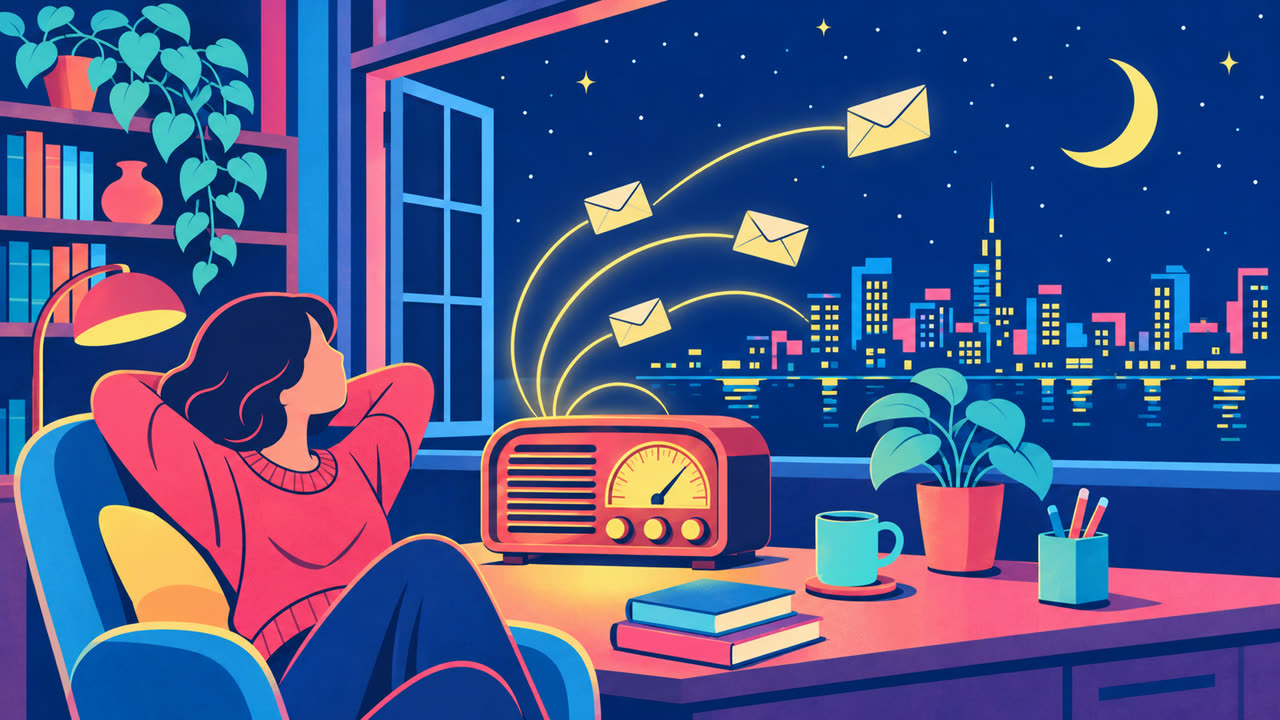
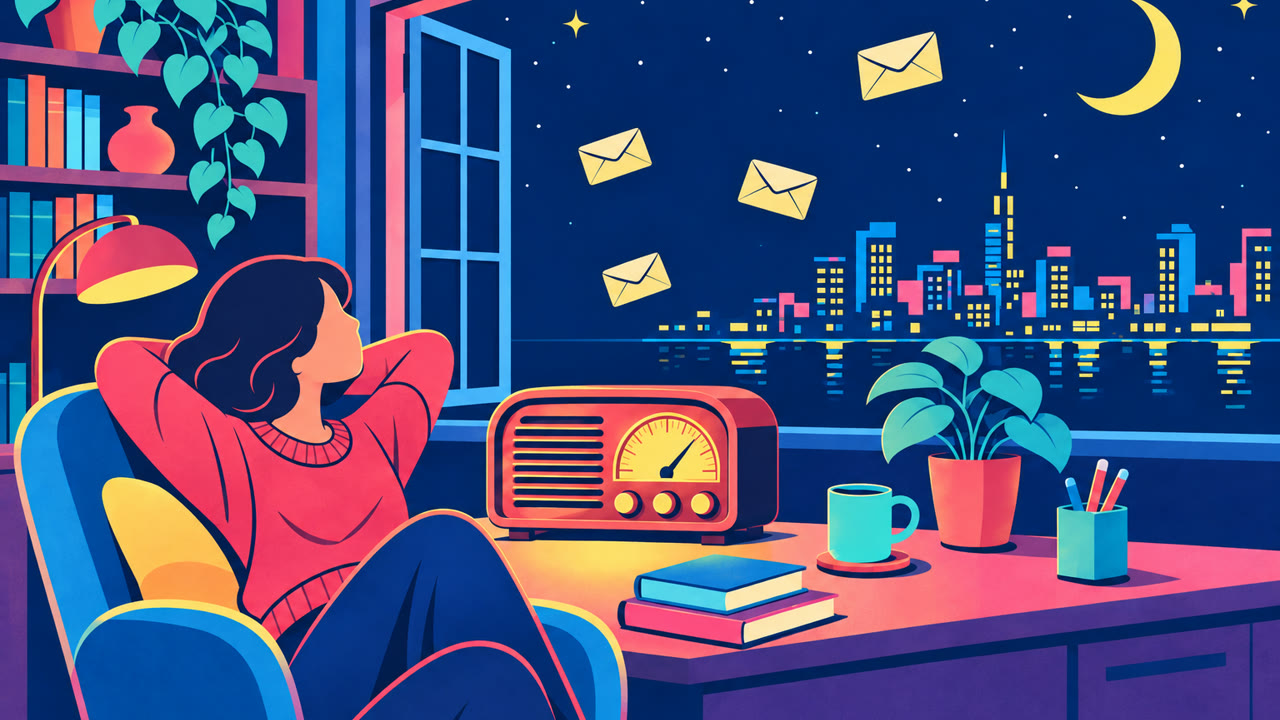
feat: about page says what the radio is for; illustrations without the connecting lines
本人のフィードバック（2026-11-08 朝、2 回目）。「聴く」は「私も」と「一言」、「自分のラジオ」は送ったお便りと
一言を返したお便りをまとめたラジオ、「できること・しないこと」は DJ が好きかもしれないものと新しいものを
ダイヤルのバランスで紹介する、に。挿絵 3 枚は線の無いものに作り直した（元の絵を参照に生成）。
README の「なぜ作ったか」は、好きを届ける・共感する・新しい好きに出会う、の前向きな書き方に。

diff --git a/src/worker/i18n/ja.ts b/src/worker/i18n/ja.ts
@@ -297,18 +297,18 @@ export const ja = {
   "about.title": "Dococa FM とは",
   "about.lead": "世界のどこかにいる誰かの好きなものが聴こえてくるラジオです。誰かが好きな曲・本・映画について書いたお便りを、DJ が読み上げます。フォローも DM もランキングも無く、聴くだけでいい。遠くの誰かと、好きなものだけでつながるための場所です。",
   "about.tour": "使い方",
-  "about.listen.alt": "夜の部屋でラジオを聴く人。ラジオから光の波に乗ってお便りの封筒が流れてくる",
-  "about.send.alt": "夜の机で、はがきを小さなラジオに差し込む手。光になって街の電波塔へ飛んでいく",
-  "about.mine.alt": "棚の上のレコード・本・フィルムが光り、ラジオから世界地図の上の小さな人影へ線が伸びる",
+  "about.listen.alt": "夜の部屋でラジオを聴く人。窓の外の夜空に、お便りの封筒が浮かんでいる",
+  "about.send.alt": "夜の机で、はがきを小さなラジオに差し込む手。窓の外に街と電波塔",
+  "about.mine.alt": "棚の上のレコード・本・フィルムが光り、壁の世界地図に小さな人影が灯る",
   "about.rules.alt": "マイクの前で、封をしたままの手紙を両手で持つ DJ",
   "about.listen.title": "聴く",
-  "about.listen.body": "スイッチを入れると、お便りが流れはじめます。ダイヤルを回すと、自分の好みに近いお便りと、少し遠くのお便りの割合が変わります（次のお便りから効きます）。流れているお便りには「私も」と一言を返せます。返さなくてもかまいません。",
+  "about.listen.body": "スイッチを入れると、お便りが流れはじめます。ダイヤルを回すと、自分の好みに近いお便りと、少し遠くのお便りの割合が変わります（次のお便りから効きます）。流れているお便りには「私も」と「一言」を返せます。",
   "about.send.title": "送る",
   "about.send.body": "好きな作品の URL を貼るか、題名で探して、お便りを書きます。お便りは、書いたとおりに読まれます。別の言語で聴いている人には、原文はそのままに、訳したものが読まれます。",
   "about.mine.title": "自分のラジオ",
-  "about.mine.body": "お便りを 3 通送ると、あなたの好みに近いお便りが流れてきます。Google でサインインしてマイページで公開にすると、自分のラジオの URL で誰かに聴いてもらえます。",
+  "about.mine.body": "自分のラジオは、あなたが送ったお便りと、「一言」を返したお便りをまとめたラジオです。Google でサインインしてマイページで公開にすると、自分のラジオの URL で誰かに聴いてもらえます。お便りを 3 通送ると、ダイヤルが効きはじめます。",
   "about.rules.title": "できること・しないこと",
-  "about.rules.body": "AI は、お便りに書き足しも言い換えもせずに読みます。別の言語で聴いている人には、原文はそのままに、訳したものを読みます。お便りは書いた人のものです。時事は話さず、数字で人や作品を測りません。出典の無い声も作りません。いまは、［デモ用］の印の付いた架空のリスナーのお便りも混ざっています。通報されたお便りは、確認のうえ非公開にします。",
+  "about.rules.body": "AI は、お便りに書き足しも言い換えもせずに読みます。別の言語で聴いている人には、原文はそのままに、訳したものを読みます。お便りは書いた人のものです。DJ は、あなたが好きかもしれないものと、まだ出会ったことのない新しいものへのお便りを、ダイヤルで選んだバランスで、あなただけに紹介します。",
   "share.continue": "ラジオで続きを聴く",
   "share.player": "このお便りを聴く",
   "share.openSite": "Dococa FM で聴く",

diff --git a/test/worker/routes/about.test.ts b/test/worker/routes/about.test.ts
@@ -29,14 +29,14 @@ describe("GET /about", () => {
 
   it("says the own radio leans to the listener after three letters, keeps the sign-in line, and links neither /start nor Spotify", async () => {
     const ja = await (await get("/about", await newSession())).text();
-    expect(ja).toMatch(/<h2>自分のラジオ<\/h2>[\s\S]*?<p>お便りを 3 通送ると、あなたの好みに近いお便りが流れてきます。Google でサインインして/);
+    expect(ja).toMatch(/<h2>自分のラジオ<\/h2>[\s\S]*?<p>自分のラジオは、あなたが送ったお便りと、「一言」を返したお便りをまとめたラジオです。Google でサインインして/);
     expect(ja).not.toContain("好きなものを 3 つ");
     expect(ja).not.toContain('href="/start"');
     expect(ja).not.toMatch(/href="\/auth\/spotify|href="\/settings\/spotify/);
     const cookie = await newSession();
     await postForm("/lang", cookie, { lang: "en", next: "/about" });
     const en = await (await get("/about", cookie)).text();
-    expect(en).toMatch(/<p>Send 3 letters and the radio plays letters closer to your taste\. Sign in with Google/);
+    expect(en).toMatch(/<p>Your radio gathers the letters you sent and the letters you replied to\. Sign in with Google/);
   });
 
   it("goes from the lead straight to the sections, with no section about why it was made", async () => {
@@ -48,7 +48,7 @@ describe("GET /about", () => {
 
   it("tells a listener they do not have to reply", async () => {
     const html = await (await get("/about", await newSession())).text();
-    expect(html).toMatch(/<h2>聴く<\/h2>[\s\S]*?「私も」と一言を返せます。返さなくてもかまいません。<\/p>/);
+    expect(html).toMatch(/<h2>聴く<\/h2>[\s\S]*?「私も」と「一言」を返せます。<\/p>/);
   });
 
   it("offers the home's tour again, through /?tour=1", async () => {
@@ -71,11 +71,11 @@ describe("GET /about", () => {
 
   it("opens the rules with what the AI never does", async () => {
     const ja = await (await get("/about", await newSession())).text();
-    expect(ja).toMatch(/<h2>できること・しないこと<\/h2>\s*<div class="rule"[^>]*><\/div>\s*<figure[^>]*>.*?<\/figure>\s*<p>AI は、お便りに書き足しも言い換えもせずに読みます。別の言語で聴いている人には、原文はそのままに、訳したものを読みます。[\s\S]*?数字で人や作品を測りません。[\s\S]*?［デモ用］/);
+    expect(ja).toMatch(/<h2>できること・しないこと<\/h2>\s*<div class="rule"[^>]*><\/div>\s*<figure[^>]*>.*?<\/figure>\s*<p>AI は、お便りに書き足しも言い換えもせずに読みます。別の言語で聴いている人には、原文はそのままに、訳したものを読みます。お便りは書いた人のものです。DJ は、あなたが好きかもしれないものと、まだ出会ったことのない新しいものへのお便りを、ダイヤルで選んだバランスで、あなただけに紹介します。<\/p>/);
     const cookie = await newSession();
     await postForm("/lang", cookie, { lang: "en", next: "/about" });
     const en = await (await get("/about", cookie)).text();
-    expect(en).toMatch(/<h2>What we do and don[^<]*t do<\/h2>\s*<div class="rule"[^>]*><\/div>\s*<figure[^>]*>.*?<\/figure>\s*<p>The AI reads each letter without adding or rewording anything\. Listeners who use another language hear a translation, with the original kept as written\.[\s\S]*?\[Demo\]/);
+    expect(en).toMatch(/<h2>What we do and don[^<]*t do<\/h2>\s*<div class="rule"[^>]*><\/div>\s*<figure[^>]*>.*?<\/figure>\s*<p>The AI reads each letter without adding or rewording anything\. Listeners who use another language hear a translation, with the original kept as written\. The letter belongs to the person who wrote it\. The DJ introduces, to you alone, letters about things you might love and things you have never met, in the balance you choose with the dial\.<\/p>/);
   });
 
   it("answers in English for an English listener", async () => {

diff --git a/src/worker/i18n/en.ts b/src/worker/i18n/en.ts
@@ -300,18 +300,18 @@ export const en: Record<keyof typeof ja, string> = {
   "about.title": "About Dococa FM",
   "about.lead": "Dococa FM is a radio where you hear what someone, somewhere in the world, loves. People write letters about the songs, books and films they love, and a DJ reads them out. There are no follows, no DMs and no rankings, so all you have to do is listen. It is a place to connect with someone far away through nothing but what you love.",
   "about.tour": "How to use",
-  "about.listen.alt": "Someone listening to a radio at night; envelopes drift out of the radio on waves of light",
-  "about.send.alt": "A hand slides a postcard into a small radio by a night window; it flies off as light toward the city's radio tower",
-  "about.mine.alt": "A record, a book and a film reel glow on a shelf; lines of light reach small figures on a world map",
+  "about.listen.alt": "Someone listening to the radio in a night room; envelopes float in the night sky outside the window",
+  "about.send.alt": "A hand slides a postcard into a small radio by a night window; the city and a radio tower outside",
+  "about.mine.alt": "A record, a book and a film reel glow on a shelf; small figures light up on a world map on the wall",
   "about.rules.alt": "A DJ at a microphone holding a sealed letter with both hands",
   "about.listen.title": "Listen",
-  "about.listen.body": "Switch the radio on and the letters start playing. Turn the dial to change how many letters are close to your taste and how many come from a little further away (it takes effect from the next letter). You can answer the letter that is playing with \"Me too\" or a short reply. You do not have to reply.",
+  "about.listen.body": "Switch the radio on and the letters start playing. Turn the dial to change how many letters are close to your taste and how many come from a little further away (it takes effect from the next letter). You can answer the letter that is playing with \"Me too\" or a \"reply\".",
   "about.send.title": "Send",
   "about.send.body": "Paste the link of a work you love, or search for it by title, then write your letter. Letters are read exactly as written. Listeners who use another language hear a translation, with the original kept as you wrote it.",
   "about.mine.title": "Your own radio",
-  "about.mine.body": "Send 3 letters and the radio plays letters closer to your taste. Sign in with Google and make it public on My page, and others can listen to it at your radio's URL.",
+  "about.mine.body": "Your radio gathers the letters you sent and the letters you replied to. Sign in with Google and make it public on My page, and others can listen to it at your radio's URL. Send 3 letters and the dial starts working.",
   "about.rules.title": "What we do and don't do",
-  "about.rules.body": "The AI reads each letter without adding or rewording anything. Listeners who use another language hear a translation, with the original kept as written. The letter belongs to the person who wrote it. It never talks about current events, and it never measures people or works with numbers. It never invents a voice without a source. For now, letters from fictional listeners marked [Demo] are mixed in. Reported letters are made private after review.",
+  "about.rules.body": "The AI reads each letter without adding or rewording anything. Listeners who use another language hear a translation, with the original kept as written. The letter belongs to the person who wrote it. The DJ introduces, to you alone, letters about things you might love and things you have never met, in the balance you choose with the dial.",
   "share.continue": "Keep listening on the radio",
   "share.player": "Listen to this letter",
   "share.openSite": "Listen on Dococa FM",

diff --git a/README.md b/README.md
@@ -10,11 +10,9 @@ Built with Claude: Japan 2026 への応募作です。本番: https://dococafm.a
 
 ## なぜ作ったか
 
-好きな曲や本や映画の話を、同じ熱量でできる相手は、なかなかいません。知らない音楽や本に出会う場所は、かつては夜のラジオでした。顔も知らない誰かが、好きなものの話を書いて送る。それを、ひとりで聴く。
+好きな曲や本や映画の話は、誰かに聞いてほしいし、誰かの好きな話も聞いてみたい。そして、まだ知らない好きなものに、ふと出会えたらうれしい。そういう時間を過ごせる場所を作りたくて、Dococa FM を作りました。
 
-いまは SNS に書けば数字と時事に埋もれ、おすすめは好みの内側に閉じていきます。AI が中身をいくらでも作れる時代だからこそ、人が自分の言葉で書いた一行を、そのまま聴ける場所が要ると思いました。
-
-Dococa FM は、誰かが好きな作品について書いた「お便り」を、AI の DJ が一字も変えずに読み上げるラジオです。フォローも DM もランキングも無く、返事の義務もありません。返せるのは「私も」と一言だけ。ダイヤルを右に回すほど、自分の好みから遠いお便りが混ざります。
+Dococa FM は、誰かが好きな作品について書いた「お便り」を、AI の DJ が紹介を添えて読み上げるラジオです。スイッチを入れると、世界のどこかの誰かのお便りが流れます。気に入ったら「私も」と、一言を返せます。ダイヤルを右に回すほど、自分の好みから少し離れたお便りも混ざり、新しい好きなものに出会えます。フォローも DM もランキングもありません。
 
 ## 30 秒で試す
 
